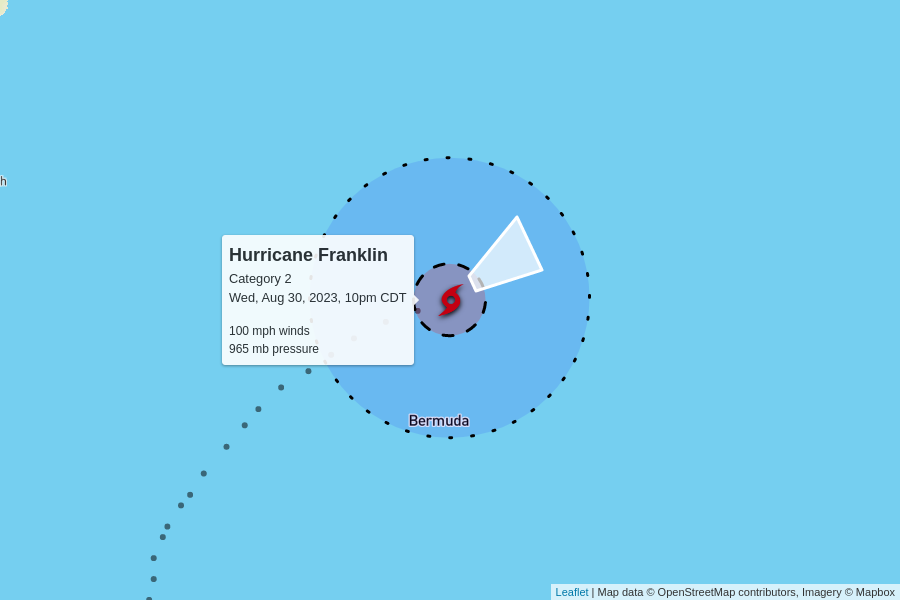
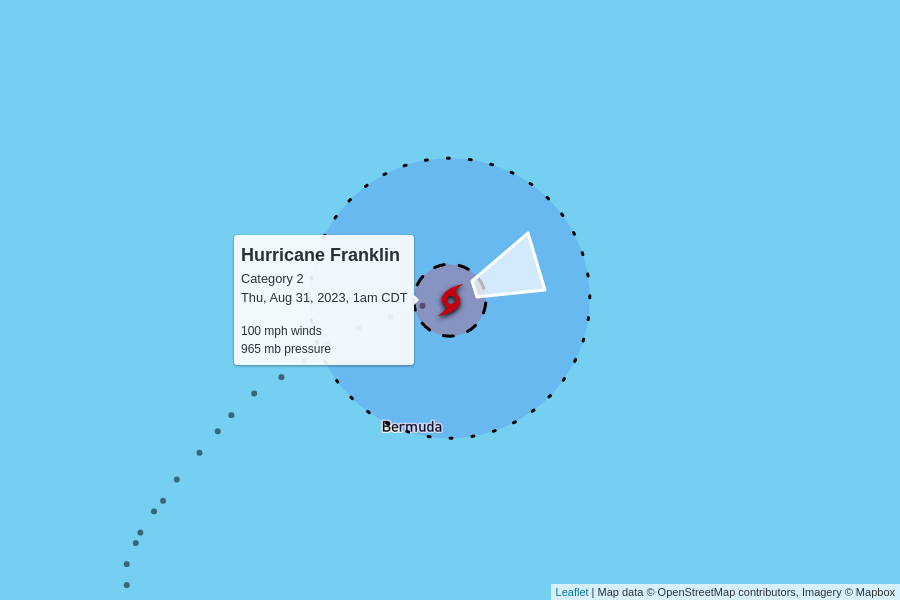
automatic update

diff --git a/docs/index.html b/docs/index.html
@@ -100,7 +100,7 @@
         <td colspan="6" class="storm category-2" >
           <h2>
             Hurricane Franklin - Category 2
-            <p class="updated">last updated <span data-time>2023-08-31T03:00:00.000Z</span></p>
+            <p class="updated">last updated <span data-time>2023-08-31T06:00:00.000Z</span></p>
           </h2>
         </td>
       </tr>
@@ -120,7 +120,7 @@
         <td>
           14 mph to the east-northeast
           <br/>
-          <span style="display: inline-block; font-size: 1.5em; transform: rotate(60deg);">↑</span>
+          <span style="display: inline-block; font-size: 1.5em; transform: rotate(70deg);">↑</span>
         </td>
         <td><a href="https://raw.githubusercontent.com/mgwalker/atlantic-hurricanes/main/data/csv/AL082023.csv">AL082023.csv</a></td>
         <td><a href="https://www.nhc.noaa.gov/archive/2023/FRANKLIN.shtml?">NHC advisories</a></td>
@@ -144,7 +144,7 @@
         <td colspan="6" class="storm category-0" >
           <h2>
             Tropical Storm Idalia
-            <p class="updated">last updated <span data-time>2023-08-31T03:00:00.000Z</span></p>
+            <p class="updated">last updated <span data-time>2023-08-31T06:00:00.000Z</span></p>
           </h2>
         </td>
       </tr>
@@ -160,11 +160,11 @@
       <tr>
         <td class="spacer"></td>
         <td>60 mph</td>
-        <td>987 mb</td>
+        <td>991 mb</td>
         <td>
           21 mph to the northeast
           <br/>
-          <span style="display: inline-block; font-size: 1.5em; transform: rotate(45deg);">↑</span>
+          <span style="display: inline-block; font-size: 1.5em; transform: rotate(55deg);">↑</span>
         </td>
         <td><a href="https://raw.githubusercontent.com/mgwalker/atlantic-hurricanes/main/data/csv/AL102023.csv">AL102023.csv</a></td>
         <td><a href="https://www.nhc.noaa.gov/archive/2023/IDALIA.shtml?">NHC advisories</a></td>
